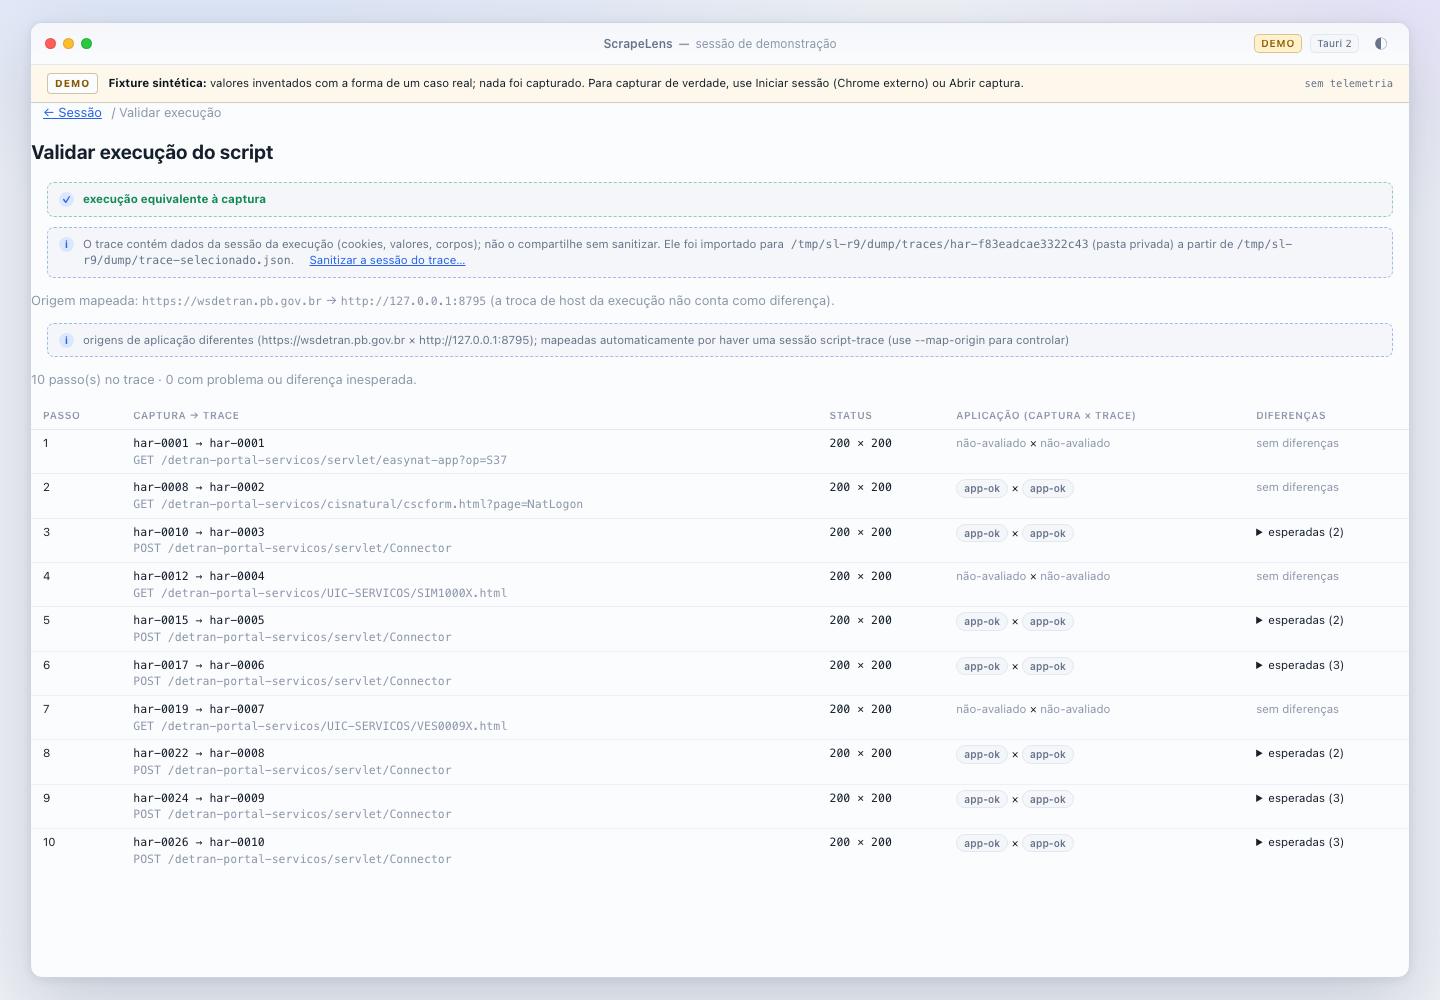
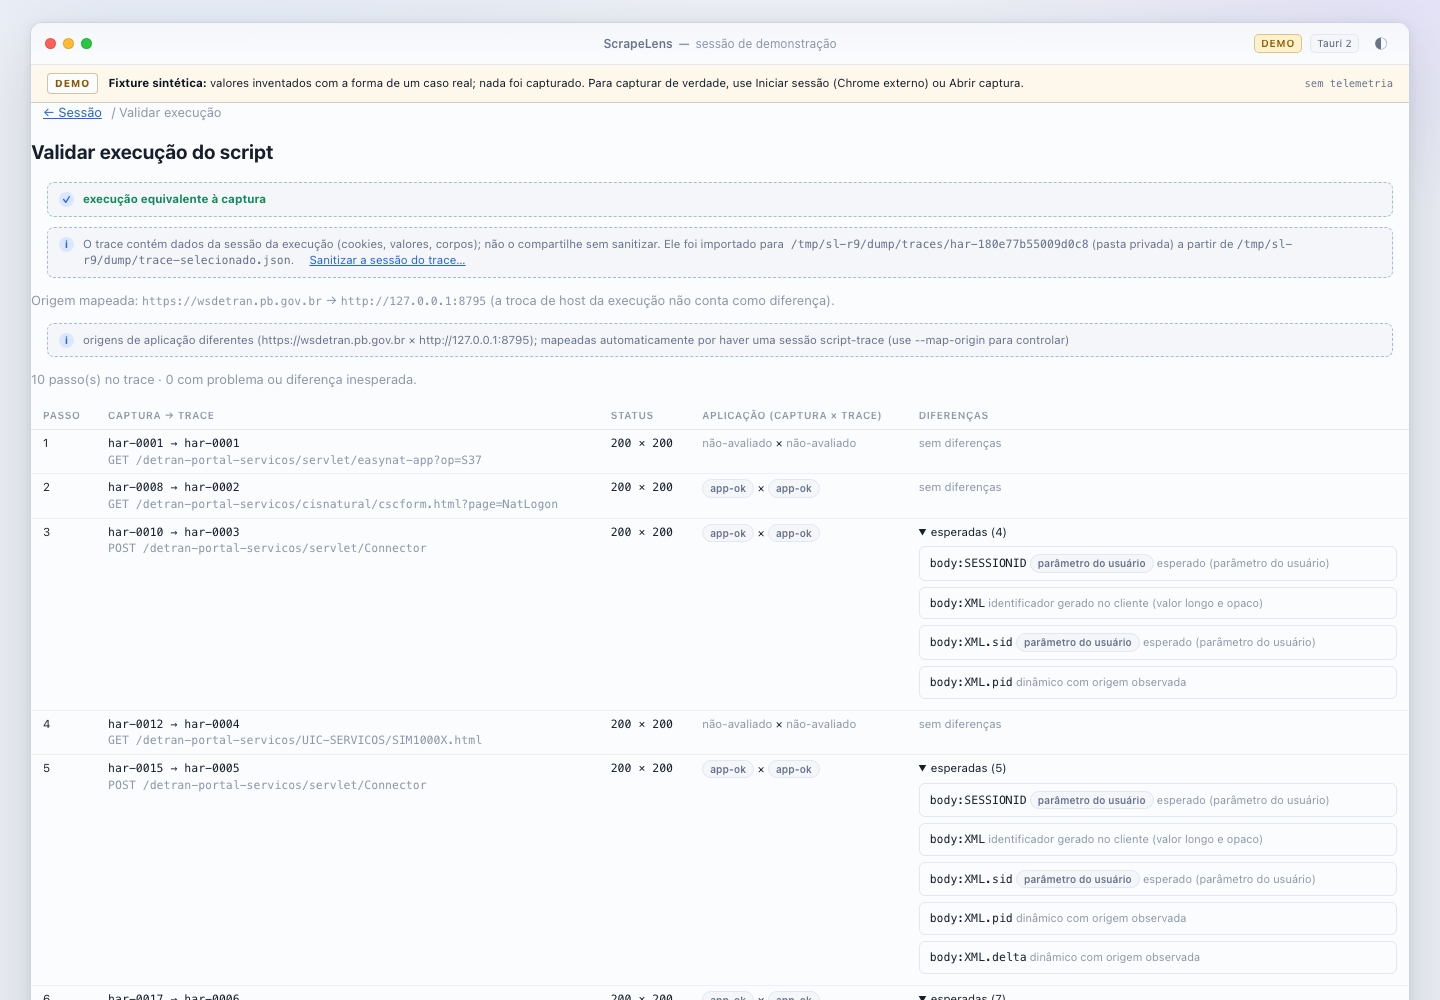
fix(app): validate_execution with adapter and user parameter class; traces regenerated

diff --git a/app/src/Timeline.tsx b/app/src/Timeline.tsx
@@ -173,10 +173,16 @@ export function ValidationView({
                   </details>
                 )}
                 {s.expected.length > 0 && (
-                  <details>
+                  <details open={s.expected.some((n) => n.reason.includes("parâmetro do usuário"))}>
                     <summary>esperadas ({s.expected.length})</summary>
                     <ul className="chain-list">
-                      {s.expected.map((n, i) => <li key={i}><span className="mono">{n.scope}:{n.field}</span> <span className="dim">{n.reason}</span></li>)}
+                      {s.expected.map((n, i) => (
+                        <li key={i}>
+                          <span className="mono">{n.scope}:{n.field}</span>{" "}
+                          {n.reason.includes("parâmetro do usuário") && <span className="chip v-partial">parâmetro do usuário</span>}{" "}
+                          <span className="dim">{n.reason}</span>
+                        </li>
+                      ))}
                     </ul>
                   </details>
                 )}

diff --git a/src-tauri/src/commands.rs b/src-tauri/src/commands.rs
@@ -781,9 +781,7 @@ fn validate_execution_blocking(
     let capture = cached_session(capture_dir)?;
     let trace = cached_session(&dir)?;
     let mut options = ValidateOptions { rules, ..Default::default() };
-    // Sem adaptador de propósito: com o `NaturalAjax` o core aponta `XML.delta`/`XML.p.v_placa` como
-    // "constante que mudou (sem origem)" numa execução correta (ver relatório da Rodada 9); sem ele o
-    // campo `XML` inteiro é dinâmico, como no `validate` do CLI.
+    options.compare.flow = crate::adapters::flow_options();
     options.compare.map_origin = map;
     let validation = validate(
         &capture.session,
@@ -1751,6 +1749,10 @@ mod tests {
         fs::create_dir_all(&root).unwrap();
         let ok = validate_execution_blocking(&root, &capture, &sim_trace("trace-sim-ok.json"), None).unwrap();
         assert_eq!(ok.validation.summary, "execução equivalente à captura");
+        assert!(
+            ok.validation.steps.iter().flat_map(|st| &st.expected).any(|n| n.reason.contains("parâmetro do usuário")),
+            "placa/CPF informados viram esperado (parâmetro do usuário)"
+        );
         let bad = validate_execution_blocking(&root, &capture, &sim_trace("trace-sim-403.json"), None).unwrap();
         assert!(bad.validation.summary.starts_with("diverge no passo 3"), "{}", bad.validation.summary);
         assert_ne!(ok.trace_dir, bad.trace_dir);

diff --git a/src-tauri/EMPACOTAMENTO.md b/src-tauri/EMPACOTAMENTO.md
@@ -48,13 +48,13 @@ Ferramentas usadas: rustc 1.98.1, Node 26.8.1, macOS 26.5.2 (arm64).
 | Arquitetura | `Mach-O 64-bit executable arm64`, thin (sem universal binary) |
 | Tamanho do bundle | 15.768 KiB (~15,4 MiB, `du -sk`) |
 | Tamanho do executável | 15.392.688 bytes |
[2 lines of base64/hex data omitted]
 | Identificador | `app.scrapelens.desktop` |
 | Assinatura | ad-hoc (`flags=0x2(adhoc)`, `TeamIdentifier=not set`) |
 | `codesign --verify --deep --strict` | exit 0 (valid on disk, satisfaz o Designated Requirement) |
 | `spctl -a` | rejeitado — esperado: sem Developer ID e sem notarização |
 
-Rodada 9 (HEAD de origem 744df02, 2026-10-29; linha do tempo, "Validar execução…" com import-trace em pasta nova e validate; hash anterior `bda06a2d…`). Antes: build final que encerra a rodada 8 (HEAD de origem dc14ac3, 2026-10-29; estrito como padrão nas partes do adaptador; opção avançada "partes tolerantes" (`lenient_parts`) no script de priming, desligada por padrão; hash anterior `0eb5632a…`). Antes: build final da rodada 8, 2ª vez (HEAD de origem c07b514, 2026-10-29; inclui b4511fb e c07b514 da Captura; hash anterior `bee5f6d6…`). Antes: build final da rodada 8 (HEAD de origem 5d2c6e6, 2026-10-29; inclui 391db16, 5d2c6e6 da Captura, 3ba9486 do Core e o corte de partes da visão do adaptador; hash anterior `53009655…`). Antes: rebuild final da rodada 8 (HEAD de origem b0ce0f0, 2026-10-29; inclui limites da gramática da Captura, core c61d407 e o limite por campo da visão do adaptador; hash anterior `9aec2199…`). Antes: rebuild da rodada 8 (HEAD de origem aab8559, 2026-10-29; adaptador `natural-ajax` por dependência de path em origins/chain/compare/priming, visão estruturada e aba "Script de priming"; hash anterior `6e301e70…`). Antes: rebuild final (HEAD de origem 4b16b0e, 2026-10-29; inclui cf015b2 initiator do CDP e 6a85676 detectores do priming; hash anterior `1a097cd0…`). Antes: rebuild 7e (leitura de `assess-rules.json` só como arquivo regular sem symlink, até 256 KiB, erro de parse sem eco; hash anterior `56514c8b…`). Antes: rebuild 7d (avisos de `AssessRules::warnings()` devolvidos por `assess_session` e mostrados na lista e na aba Aplicação; hash anterior `0dba0476…`). Antes: rebuild 7c (filtros separados "Falhas da aplicação" = app-error e "Possíveis bloqueios?" = blocked?, combináveis; hash anterior `aa066f1a…`). Antes: rebuild 7b-2 (`counts` do assess com `VerdictKind::count_key()`, chaves kebab-case iguais ao `verdictKind`; hash anterior `83d67718…`). Antes: rebuild do ajuste 7b (verdict `not-assessed` neutro; hash anterior `0f6d04bf…`). Antes: rebuild da onda 7b (comando `assess_session`, coluna/filtro/aba "Aplicação", veredito na cadeia e no compare; hash anterior `4f7ca2aa…`). Antes: rebuild com frames auxiliares e iniciador (hash anterior `1697321d…`). Antes: rebuild da onda 6b (controle HTML, contexto estático, páginas de contexto, avisos de HAR sem cookies, compare por rodadas com opções, sanitização de negócio; hash anterior `f777988f…`). Antes: rebuild da dica de reordenação ligada a `SessionComparison.reordered` (hash anterior `21824159…`). Antes: rebuild do ajuste de layout do compare (chips quebram linha; dica de reordenação opcional); hash anterior `ac7213b2…`. Antes: rebuild com os rótulos do core (possível origem) e fixtures regeneradas; hash anterior `31ec27c3…`. Antes: rebuild das correções da revisão da rodada 5 (possível origem, confiança por passo, comparação paginada, caminhos canônicos, partsCounts; hash anterior `c1783a57…`). Antes: rebuild da onda 5b (aba Origem, cadeia de priming, comparação A × B, exportação com origens anotadas; hash anterior `2f08150d…`). Antes: rebuild do acabamento da rodada 4 (legenda de realce só quando há tracejado, nota discreta para `chrome-decoded`, aviso para `charset:*`/`lossy-postData`); hash anterior `0e2754f4…`. Antes: rebuild com busca preguiçosa do core (LazySession + search_lazy), realce sólido/tracejado e texto da fixture sintética; hash anterior `f9c0acec…`. Antes: rebuild das correções da revisão 4b (rótulos de origem, realce pelo intervalo do core, cache do bundle de busca, recusa de symlink em anexos, `transformed`; hash anterior `56ee754b…`). Antes: rebuild da onda 4b (busca no payload e painel de corpos: commands `search_session` e `read_body`, UI; 28+2 ignorados em src-tauri, 16/16 em tests/exportacao, `npm run test:adapter` ok; evidência em `evidence/busca-corpos/`). Hash anterior `9c04b98b…` substituído. Histórico: rebuild de 0d4dbab (`fix(app)`: adapter tolera campos omitidos que o core aceita via serde default; teste `npm run test:adapter` com a fixture mínima; 15+1 ignorado Tauri, 16/16 regressões tests/exportacao). Hash anterior `5934556c…` (16015a1) substituído. Antes: rebuild com validação de todos os ancestrais do destino (F1/F2): o hash acima é deste build. O SHA-256 é do executável **após** o re-sign ad-hoc. Um `tauri build` limpo
+Rodada 9, 2ª vez (HEAD de origem 2a5c533, 2026-10-29; validate com adaptador e classe "parâmetro do usuário"; hash anterior `48e1ab6d…`). Antes: rodada 9 (HEAD de origem 744df02, 2026-10-29; linha do tempo, "Validar execução…" com import-trace em pasta nova e validate; hash anterior `bda06a2d…`). Antes: build final que encerra a rodada 8 (HEAD de origem dc14ac3, 2026-10-29; estrito como padrão nas partes do adaptador; opção avançada "partes tolerantes" (`lenient_parts`) no script de priming, desligada por padrão; hash anterior `0eb5632a…`). Antes: build final da rodada 8, 2ª vez (HEAD de origem c07b514, 2026-10-29; inclui b4511fb e c07b514 da Captura; hash anterior `bee5f6d6…`). Antes: build final da rodada 8 (HEAD de origem 5d2c6e6, 2026-10-29; inclui 391db16, 5d2c6e6 da Captura, 3ba9486 do Core e o corte de partes da visão do adaptador; hash anterior `53009655…`). Antes: rebuild final da rodada 8 (HEAD de origem b0ce0f0, 2026-10-29; inclui limites da gramática da Captura, core c61d407 e o limite por campo da visão do adaptador; hash anterior `9aec2199…`). Antes: rebuild da rodada 8 (HEAD de origem aab8559, 2026-10-29; adaptador `natural-ajax` por dependência de path em origins/chain/compare/priming, visão estruturada e aba "Script de priming"; hash anterior `6e301e70…`). Antes: rebuild final (HEAD de origem 4b16b0e, 2026-10-29; inclui cf015b2 initiator do CDP e 6a85676 detectores do priming; hash anterior `1a097cd0…`). Antes: rebuild 7e (leitura de `assess-rules.json` só como arquivo regular sem symlink, até 256 KiB, erro de parse sem eco; hash anterior `56514c8b…`). Antes: rebuild 7d (avisos de `AssessRules::warnings()` devolvidos por `assess_session` e mostrados na lista e na aba Aplicação; hash anterior `0dba0476…`). Antes: rebuild 7c (filtros separados "Falhas da aplicação" = app-error e "Possíveis bloqueios?" = blocked?, combináveis; hash anterior `aa066f1a…`). Antes: rebuild 7b-2 (`counts` do assess com `VerdictKind::count_key()`, chaves kebab-case iguais ao `verdictKind`; hash anterior `83d67718…`). Antes: rebuild do ajuste 7b (verdict `not-assessed` neutro; hash anterior `0f6d04bf…`). Antes: rebuild da onda 7b (comando `assess_session`, coluna/filtro/aba "Aplicação", veredito na cadeia e no compare; hash anterior `4f7ca2aa…`). Antes: rebuild com frames auxiliares e iniciador (hash anterior `1697321d…`). Antes: rebuild da onda 6b (controle HTML, contexto estático, páginas de contexto, avisos de HAR sem cookies, compare por rodadas com opções, sanitização de negócio; hash anterior `f777988f…`). Antes: rebuild da dica de reordenação ligada a `SessionComparison.reordered` (hash anterior `21824159…`). Antes: rebuild do ajuste de layout do compare (chips quebram linha; dica de reordenação opcional); hash anterior `ac7213b2…`. Antes: rebuild com os rótulos do core (possível origem) e fixtures regeneradas; hash anterior `31ec27c3…`. Antes: rebuild das correções da revisão da rodada 5 (possível origem, confiança por passo, comparação paginada, caminhos canônicos, partsCounts; hash anterior `c1783a57…`). Antes: rebuild da onda 5b (aba Origem, cadeia de priming, comparação A × B, exportação com origens anotadas; hash anterior `2f08150d…`). Antes: rebuild do acabamento da rodada 4 (legenda de realce só quando há tracejado, nota discreta para `chrome-decoded`, aviso para `charset:*`/`lossy-postData`); hash anterior `0e2754f4…`. Antes: rebuild com busca preguiçosa do core (LazySession + search_lazy), realce sólido/tracejado e texto da fixture sintética; hash anterior `f9c0acec…`. Antes: rebuild das correções da revisão 4b (rótulos de origem, realce pelo intervalo do core, cache do bundle de busca, recusa de symlink em anexos, `transformed`; hash anterior `56ee754b…`). Antes: rebuild da onda 4b (busca no payload e painel de corpos: commands `search_session` e `read_body`, UI; 28+2 ignorados em src-tauri, 16/16 em tests/exportacao, `npm run test:adapter` ok; evidência em `evidence/busca-corpos/`). Hash anterior `9c04b98b…` substituído. Histórico: rebuild de 0d4dbab (`fix(app)`: adapter tolera campos omitidos que o core aceita via serde default; teste `npm run test:adapter` com a fixture mínima; 15+1 ignorado Tauri, 16/16 regressões tests/exportacao). Hash anterior `5934556c…` (16015a1) substituído. Antes: rebuild com validação de todos os ancestrais do destino (F1/F2): o hash acima é deste build. O SHA-256 é do executável **após** o re-sign ad-hoc. Um `tauri build` limpo
 produz um binário byte-diferente (o linker assina antes do bundle), por isso o
 hash identifica este artefato, não a saída de qualquer build. O build anterior
 desta mesma rodada, sem o ajuste `3a3c676`, tinha
